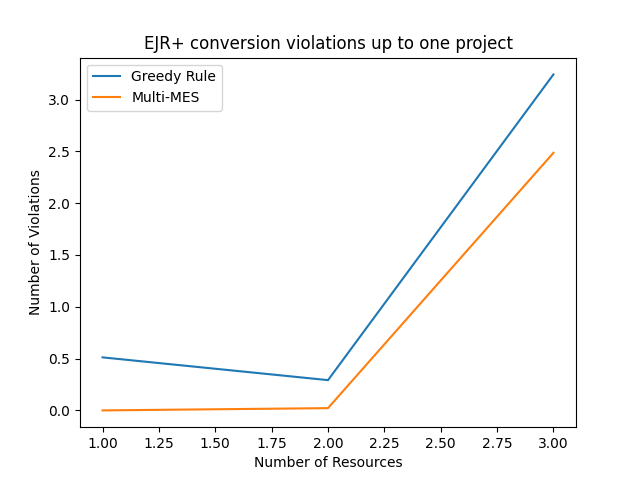
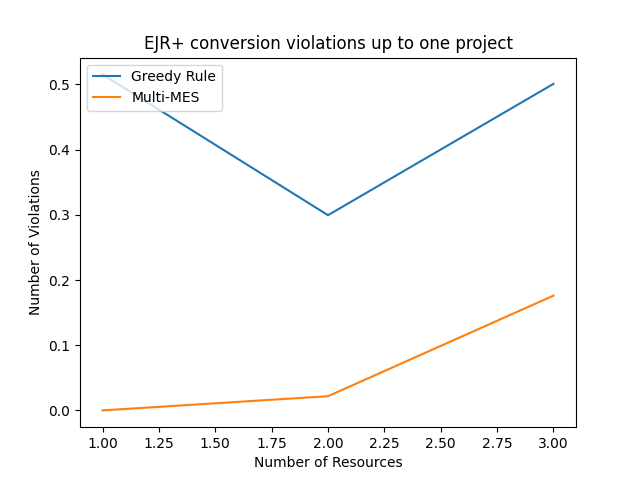
mooooooooore graphs

diff --git a/environment/main.py b/environment/main.py
@@ -34,7 +34,6 @@ Cannot use ApprovalProfile.is_trivial() since requires the cost to be an integer
 - Different epsilon for exchange rates
 - Different aggregation functions for MES
 """
-
 def batch_run(seed):
     rand.seed(seed)
 
@@ -43,12 +42,17 @@ def batch_run(seed):
     #run_test_resources(exclusion_test, 10, './environment/datasets_resources', './environment/plots_batch', False, False)
     #run_test_projects(ejrplus_alldim_test, './environment/datasets_extended', './environment/plots_batch', True)
     #run_test_resources(ejrplus_conversion_test, 10, './environment/datasets_resources', './environment/plots_batch', True, False)
-    #run_test_resources(ejrpc_one_test, 3, './environment/datasets_under_30', './environment/plots', True, False)
-    run_test_resources(ejrplus_alldim_test, 10, './environment/datasets_resources', './environment/plots_batch', True, False)
-    run_test_resources(ejrpa_one_test, 10, './environment/datasets_resources', './environment/plots_batch', True, False)
-    run_test_projects(ejrpa_one_test, './environment/datasets_extended', './environment/plots_batch', True)
-    run_test_projects(ejrplus_alldim_test, './environment/datasets_extended', './environment/plots_batch', True)
+    run_test_resources(ejrpc_one_test, 10, './environment/datasets_resources', './environment/plots_batch', True, False)
+    #run_test_resources(ejrplus_alldim_test, 10, './environment/datasets_resources', './environment/plots_batch', True, False)
+    #run_test_resources(ejrpa_one_test, 10, './environment/datasets_resources', './environment/plots_batch', True, False)
+    #run_test_projects(ejrpa_one_test, './environment/datasets_extended', './environment/plots_batch', True)
+    #run_test_projects(ejrplus_alldim_test, './environment/datasets_extended', './environment/plots_batch', True)
     t2 = time()
+
+    def to_hours(x):
+        h = floor(x/3600)
+        m = floor(x/60 - h*60)
+        return f"{h}:{m}"
 
     print("Done")
     print(f"Time taken: {to_hours(t2-t1)}")
@@ -58,8 +62,3 @@ if __name__ == "__main__":
     seed = 0
 
     batch_run(seed)
-
-def to_hours(x):
-    h = floor(x/3600)
-    m = floor(x/60 - h*60)
-    return f"{h}:{m}"

diff --git a/environment/parser.py b/environment/parser.py
@@ -36,8 +36,36 @@ def parse(path, num_resources=1, random_budget=False):
             project_list.append(Mproject(i, np.array([float(projects[i]['cost'])])))
 
         instance = Minstance(project_list, np.array([b]), name=path)
-    elif num_resources == 2: # For 2 resources, randomly split the cost between them
-        if not random_budget:
+    else:
+        project_list = []
+        budget_split = np.array([b/num_resources for _ in range(num_resources)])
+
+        for i in projects:
+            cost = float(projects[i]['cost'])
+            # Created sorted list of random numbers [0,random,1] to define the intervals for the cost.
+            breaks = sorted([0,1]+[rand.uniform(0,1) for _ in range(num_resources-1)])
+            project_list.append(Mproject(i, np.array([cost*(breaks[i+1]-breaks[i]) for i in range(num_resources)])))
+
+        instance = Minstance(project_list, budget_split, name=path)
+
+
+    ballots = []
+    for i in votes:
+        p:str = votes[i]['vote']
+        p_split = p.split(",")
+
+        b = pbe.ApprovalBallot()
+        for name in p_split:
+            b.add(instance.get_project(name))
+
+        ballots.append(b)
+
+    profile = pbe.ApprovalProfile(init=ballots, instance=instance)
+
+    return (path, instance, profile)
+
+"""
+if not random_budget:
             # Split the budget evenly among resources
             budget_split = np.array([b/num_resources for _ in range(num_resources)])
 
@@ -62,18 +90,4 @@ def parse(path, num_resources=1, random_budget=False):
                 cost_split = [np.random.uniform(0,1) for i in range(num_resources)]
                 project_list.append(Mproject(i,np.array([cost*x for x in cost_split])))
             instance = Minstance(project_list, budget_split, name=path)
-
-    ballots = []
-    for i in votes:
-        p:str = votes[i]['vote']
-        p_split = p.split(",")
-
-        b = pbe.ApprovalBallot()
-        for name in p_split:
-            b.add(instance.get_project(name))
-
-        ballots.append(b)
-
-    profile = pbe.ApprovalProfile(init=ballots, instance=instance)
-
-    return (path, instance, profile)
+"""
